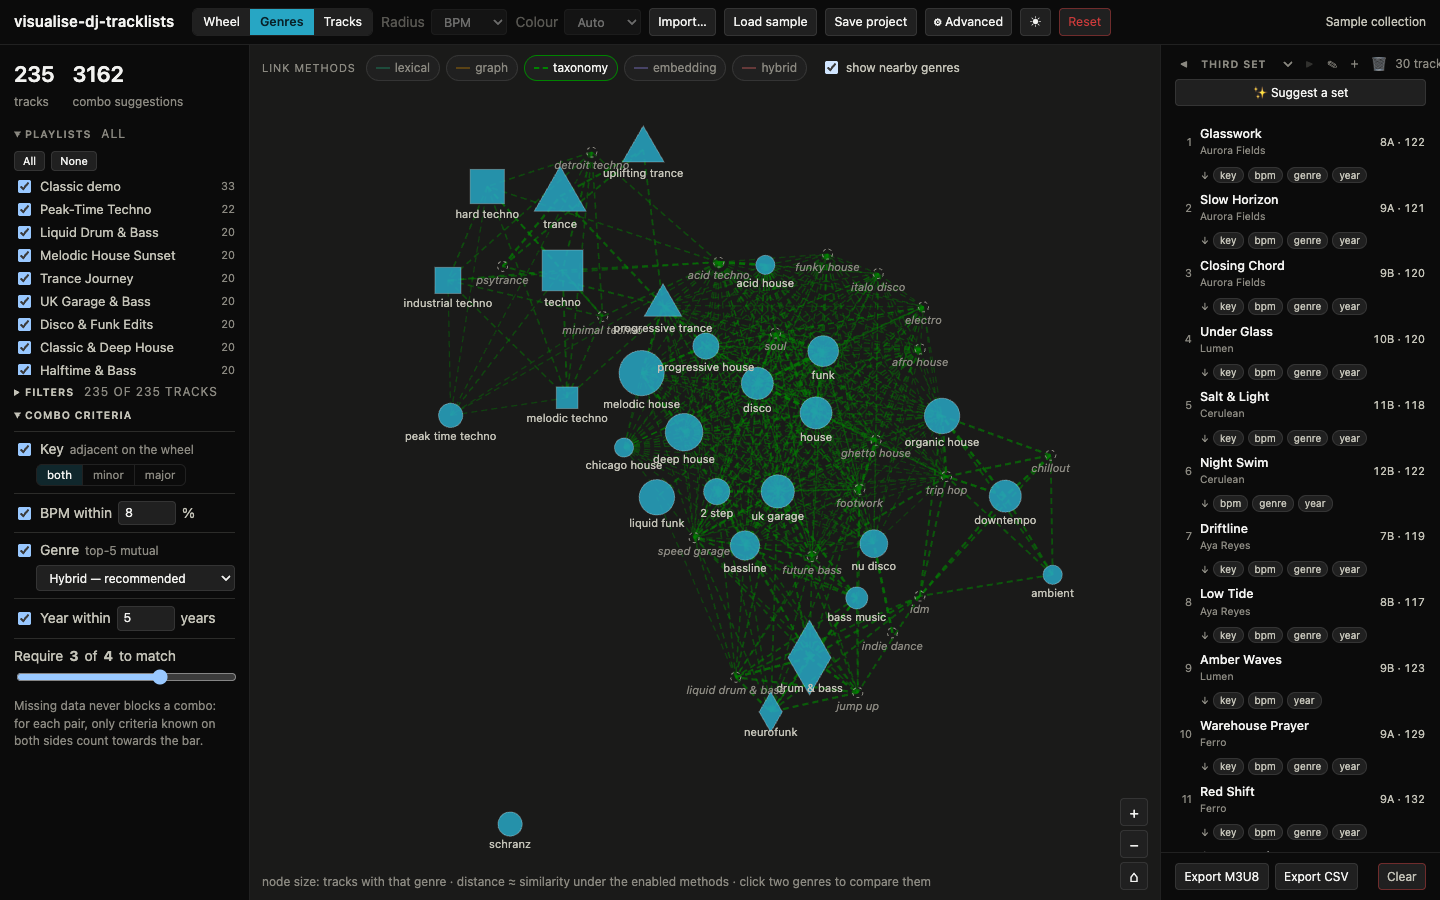
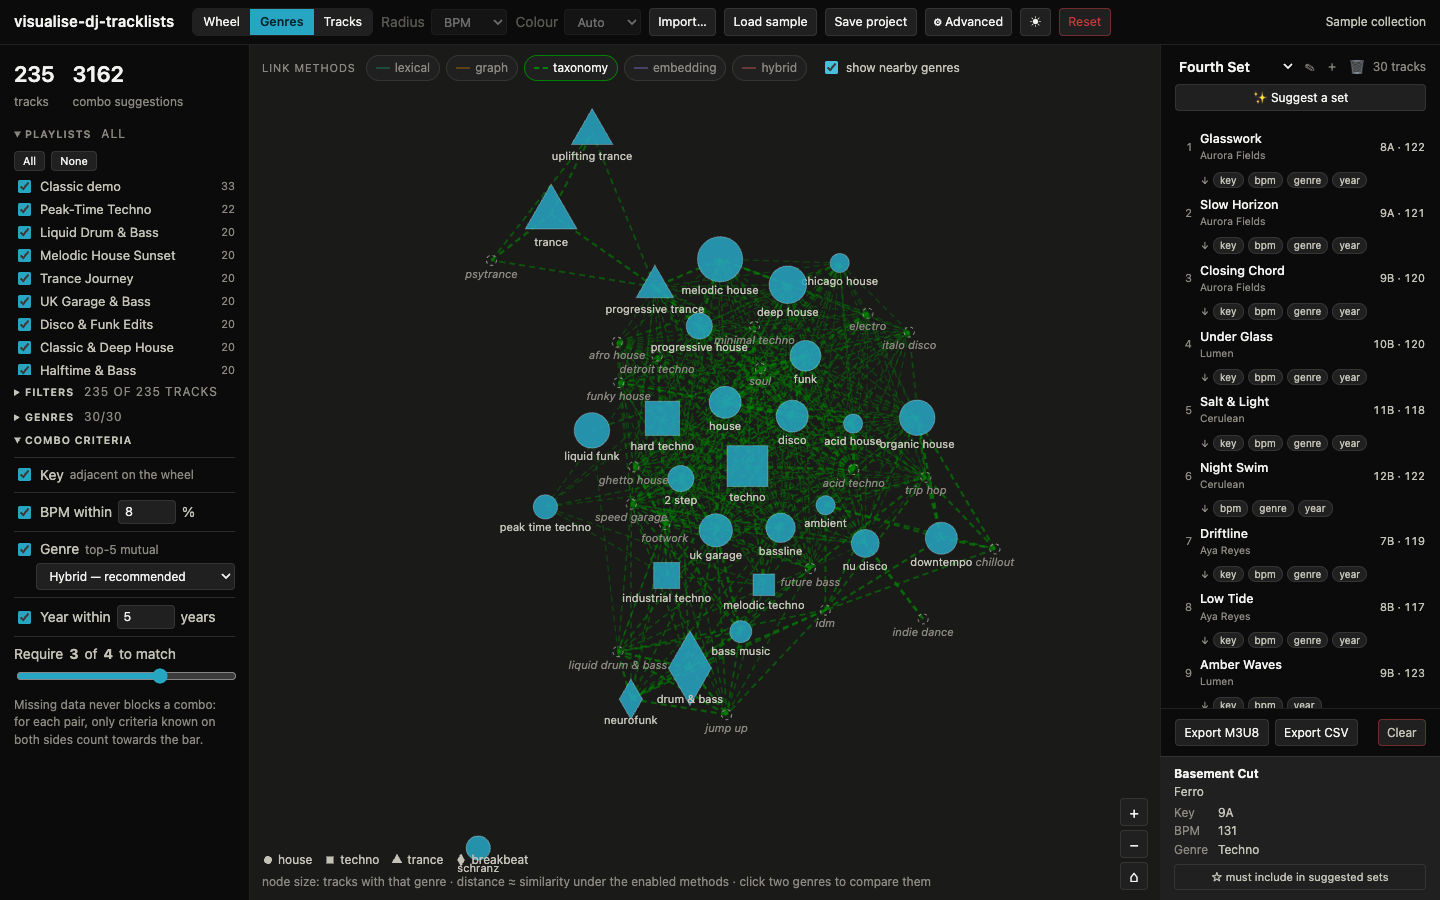
v9 verification: E2E flow updated for the new UI, screenshots and README refreshed
The Playwright flow now exercises v9: the set dropdown instead of ◀/▶, the
top-level Genres section, the Filters-based key ring switch, spread-slider
determinism instead of re-jitter, position-cell remove-on-click, and the
shifted leading cells; node selection is dispatched (dense-slot hit-circle
occlusion is not under test). Full run passes with zero console errors.
All six README screenshots regenerated; feature text updated for focus-only
edges, the relaxation, the 26-column table, and the set-panel changes.

diff --git a/README.md b/README.md
@@ -26,7 +26,10 @@ Your library never leaves your machine — there is no backend, no account, no u
   2000 nodes.
 - **See the web**: key as angle on a 24-slot Camelot wheel (every harmonically compatible
   key angularly adjacent, minor/major sectors tinted), switchable radius (BPM / rating /
-  year), node colour on its own axis. Tracks without a key sit in a labelled gutter at
+  year), node colour on its own axis. Combo edges draw **around the track you select**:
+  its star of compatible neighbours by default, plus the cluster's own interconnections
+  with an advanced toggle — an unselected wheel stays a clean constellation (the set's
+  walk is always visible). Tracks without a key sit in a labelled gutter at
   their true BPM. Zoom to resolve detail — node disks keep their size while the
   structure magnifies. Node **shapes** (circle, square, triangle, …) carry a class of
   your choosing: **genre families** from the curated genre tree (the default —
@@ -36,36 +39,45 @@ Your library never leaves your machine — there is no backend, no account, no u
 - **Nodes that hold still**: every track's angle is a property of your _library_,
   not of the current filters — filtering and playlist toggling only make nodes
   appear or disappear, leaving gaps in the same-key fans, so nothing ever shuffles
-  around while you narrow down. Same-key fans spread evenly in a **stable random
-  order** (no artificial BPM sweep); a ↻ button re-shuffles them, and the spread
-  itself scales from 0 to 1. The one deliberate exception is the **radial axis**:
+  around while you narrow down. Same-key tracks **repel each other along their
+  slot's arc** — a deterministic relaxation that only separates nodes that would
+  actually overlap (radius stays pinned to the value it encodes), squeezes evenly
+  when a slot is genuinely full, and is bounded by the spread setting (0 to 1 of
+  the 15° sector). No randomness anywhere: the same library always draws the same
+  wheel. The one deliberate exception is the **radial axis**:
   tighten the min/max of the value shown as radius and the rings, ticks and radii
   glide to the new range (and back, via each filter's ↺ reset). The legend lists
   only the genre classes you can currently see, and disappears when the symbols
   make no distinction. Rating and year rings only sit on whole values.
 - **Map the genres**: a second central view (Wheel | Genres | Tracks switch) lays your
   library's genres out with a force simulation — screen distance approximates the
-  distance measure, and you can **drag the nodes around** to jiggle the clusters.
+  distance measure, and you can **drag the nodes around** to jiggle the clusters
+  (panning stays on the background). Node icons here always follow the **curated
+  genre families**, with a shape legend at the bottom.
   Toggleable per-method edge overlays show where the similarity methods agree and
   disagree — the overlay for your **active criterion method draws exactly the pairs
   the criterion links**, k/threshold included. **Click two genres to compare them**:
   a docked card locks with every method's score for the pair (hovering a single edge
   still works); a "show nearby genres" toggle ghosts in related genres you don't own
   yet.
-- **Browse the tracks**: the third central view is a classic sortable table of the
-  selected playlists — every column sortable (keys in Camelot order, missing values
-  last, ratings as stars), and the sort survives view switches. Pick **which columns
-  show** (Album, Date added and Length join the classic seven) in the advanced menu
-  and **drag the headers** to reorder them. Clicking a row selects it everywhere and
-  highlights its combo neighbours; the leading **＋ cell appends to the set and turns
-  into the track's position number(s)** once it's in. Per-row toggles mark a track
-  **essential** (★) or pin it as the **opener/closer** of generated sets (a pinned
-  track's ★ lights up by itself — it's included by construction); tagged tracks wear
-  a subtle ring on the wheel.
-- **Filter**: BPM / year / rating ranges plus a genre checklist **scoped to the
-  selected playlists** decide what participates in the graph at all, and a
-  **both/minor/major** switch beside the key criterion shows one Camelot ring only —
-  the excluded ring's sector tint fades out so the wheel visibly answers. Ranges
+- **Browse the tracks**: the third central view is a classic sortable table of
+  everything the wheel shows — playlists AND filters scope it — with every column
+  sortable (keys in Camelot order, missing values last, ratings as stars), and the
+  sort survives view switches. Pick **which columns show** in the advanced menu —
+  **every metadata field the Rekordbox XML carries** is available, 26 columns from
+  Artist to Play count to Bit rate — and **drag the headers** to reorder them; a
+  hidden column remembers its place. Clicking a row selects it everywhere and
+  highlights its combo neighbours. The leading cells: ★/⏮/⏭ toggles mark a track
+  **essential** or pin it as the **opener/closer** of generated sets (a pinned
+  track's ★ lights up by itself — it's included by construction; tagged tracks wear
+  a subtle ring on the wheel), the header ★ stars the whole view at once, and the
+  **＋ cell appends to the set and turns into the track's position number(s)** —
+  hover it and it becomes a ✕ that takes the track out again.
+- **Filter**: BPM / year / rating ranges, a **both/minor/major** switch that shows
+  one Camelot ring only (the excluded ring's sector tint fades out so the wheel
+  visibly answers), and a **Genres section** of its own — a checklist **scoped to
+  the selected playlists** with a live count — decide what participates in the
+  graph at all. Ranges
   pre-fill with the whole numbers just outside the selected playlists' actual
   extremes, reset to them with a ↺ per range (and whenever you toggle playlists), and
   a min can never cross its max. The filter header counts visible tracks against the
@@ -89,8 +101,9 @@ Your library never leaves your machine — there is no backend, no account, no u
   (electronic) and sparse genre regions; a classic score threshold remains available.
   Umbrella tags ("Electronic", "Dance") never drive a match, and multi-genre fields
   ("House / Techno") match through their best component.
-- **Weave a set**: click to focus (a card shows the selection's details, docked
-  bottom-right), double-click to append (the same track can appear twice — just not
+- **Weave a set**: click to focus (a card with the selection's details docks under
+  the set panel, and hovering a set row highlights its node on the wheel and its
+  table row), double-click to append (the same track can appear twice — just not
   back-to-back), or press the wheel's centre **＋ next** button to slot in the best
   next track (it inserts _between_ tracks when your selection sits mid-set; the
   selection then follows the pick, so pressing again continues from the head). A
@@ -103,8 +116,9 @@ Your library never leaves your machine — there is no backend, no account, no u
   every visible track is in the set. **Cmd+Z / Cmd+Shift+Z** undo and redo set edits
   and selection changes.
 - **Keep several sets — they ARE the suggestion browser**: the set panel's header
-  reads **◀ [set name] ▶** over up to **eight named sets** — ＋ starts a "Second Set"
-  (then Third, …), ✎ renames inline, and a subtle ✨ badge marks a set that is
+  shows the **active set's name** over up to **eight named sets** — ＋ counts
+  onward from what you have ("Third Set" after two renamed ones), ✎ renames inline
+  (clashes auto-suffix to "Name (2)"), and a subtle ✨ badge marks a set that is
   untouched generator output. **✨ Suggest** regenerates such a set **in place**
   (Cmd+Z steps back through the previous suggestions) and starts a **new set** when
   the current one is hand-edited — your work is never overwritten. All sets persist
@@ -120,9 +134,12 @@ Your library never leaves your machine — there is no backend, no account, no u
   the set) as collapsible sections that start folded and **remember what you keep
   open**, so the wheel reacts live while you tune without a wall of controls. The
   **colour scheme** (blue / aqua / violet) tints the whole app — accents, the set
-  path, the genre map — not just the nodes; a ☀/☾ switch flips between the dark and
-  light theme (fresh visitors follow the system preference). The top bar stays lean:
-  the imported collection's name plus an ⓘ whose tooltip holds the import details.
+  path, the genre map, even the native checkboxes and sliders — not just the nodes;
+  a ☀/☾ switch flips between the dark and light theme (fresh visitors follow the
+  system preference), and a **Return to default settings** button at the panel's
+  foot resets everything the panel owns (your filters, sets and theme survive).
+  The top bar stays lean: the imported collection's name plus an ⓘ whose tooltip
+  holds the import details.
 - **Take it with you**: export the set as M3U8 (Rekordbox re-imports it) or CSV; save
   the whole project as JSON — every export asks for a filename first. Everything
   autosaves to the browser; a Reset button (with confirmation) wipes the slate.
